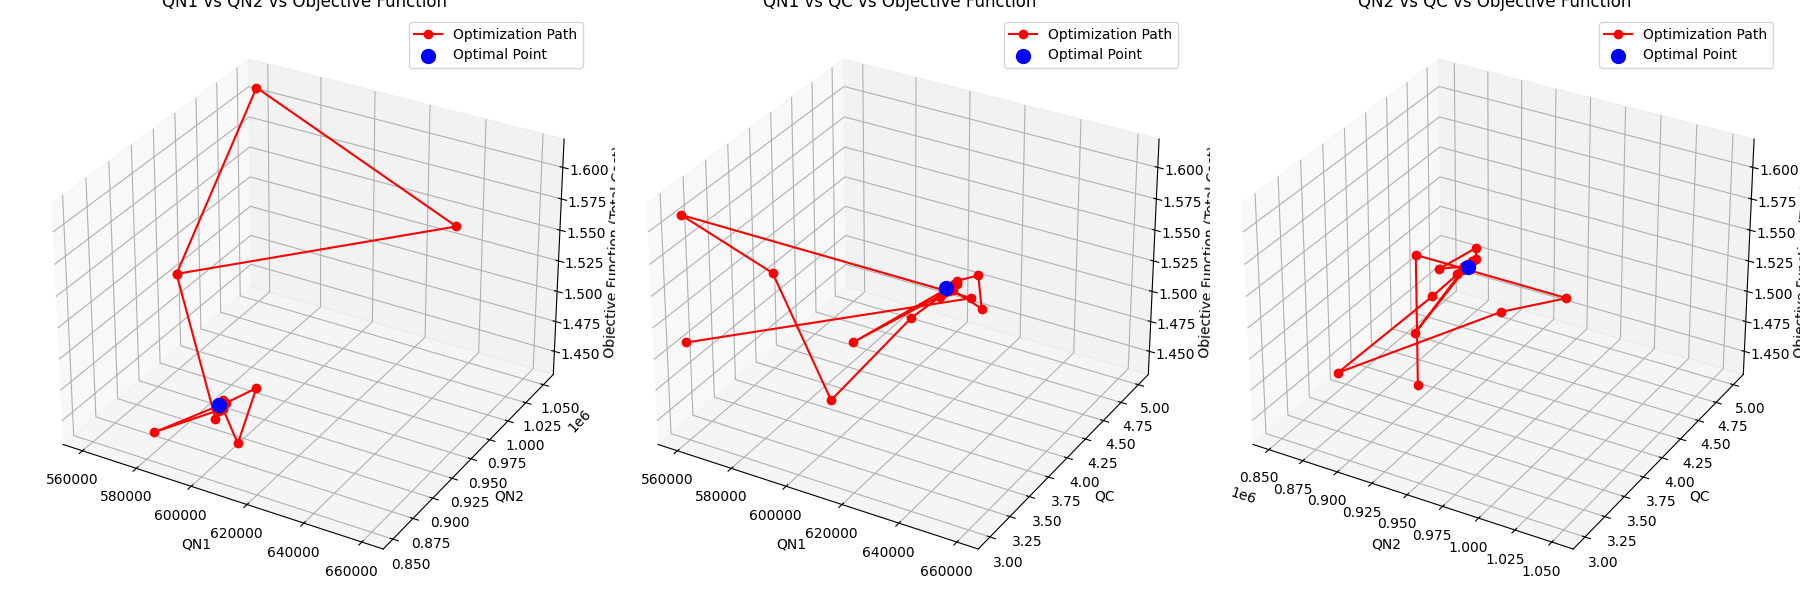
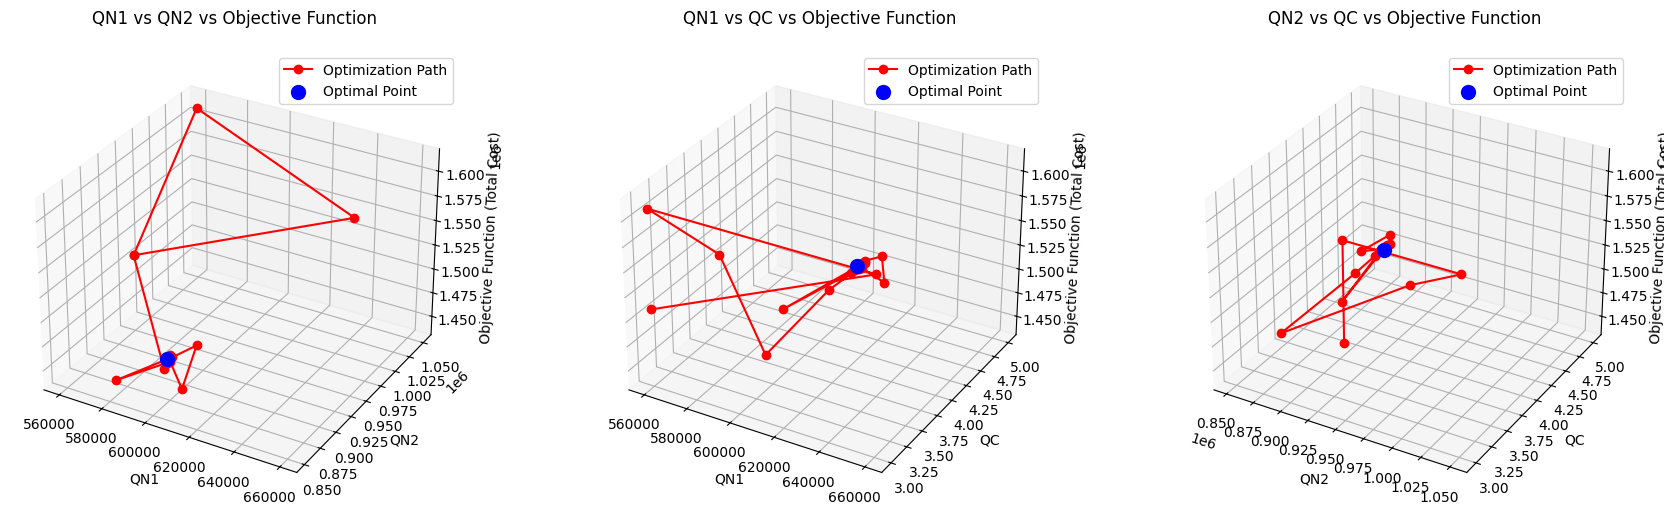
nice

Changed region(s): [[0.3438, 0.0, 1.0, 0.9961], [0.0, 0.0, 0.3438, 0.9961]]

diff --git a/optimize_cobyla_scaled.py b/optimize_cobyla_scaled.py
@@ -169,7 +169,7 @@ ax1.scatter(opt[0], opt[1], cost_min, color='blue', s=100, label='Optimal Point'
 ax1.set_xlabel('QN1')
 ax1.set_ylabel('QN2')
 ax1.set_zlabel('Objective Function (Total Cost)')
-ax1.set_title('QN1 vs QN2 vs Objective Function')
+ax1.set_title('QN1 vs QN2 vs Objective Function', pad=20)  # Add padding to title
 ax1.legend()
 
 # Plot 2: QN1 vs QC vs Objective Function
@@ -179,7 +179,7 @@ ax2.scatter(opt[0], opt[2], cost_min, color='blue', s=100, label='Optimal Point'
 ax2.set_xlabel('QN1')
 ax2.set_ylabel('QC')
 ax2.set_zlabel('Objective Function (Total Cost)')
-ax2.set_title('QN1 vs QC vs Objective Function')
+ax2.set_title('QN1 vs QC vs Objective Function', pad=20)  # Add padding to title
 ax2.legend()
 
 # Plot 3: QN2 vs QC vs Objective Function
@@ -189,16 +189,16 @@ ax3.scatter(opt[1], opt[2], cost_min, color='blue', s=100, label='Optimal Point'
 ax3.set_xlabel('QN2')
 ax3.set_ylabel('QC')
 ax3.set_zlabel('Objective Function (Total Cost)')
-ax3.set_title('QN2 vs QC vs Objective Function')
+ax3.set_title('QN2 vs QC vs Objective Function', pad=20)  # Add padding to title
 ax3.legend()
 
-# Adjust layout to prevent overlap
-plt.tight_layout()
+# Adjust the overall layout with margins to avoid trimming
+plt.subplots_adjust(left=0.05, right=0.95, top=0.90, bottom=0.10, wspace=0.3)
 
 # Save the combined figure with the script name
 figure_name = script_name + '_3d_plots.png'
 figure_path = os.path.join(os.getcwd(), figure_name)
-plt.savefig(figure_path)
+plt.savefig(figure_path, bbox_inches='tight')  # Ensure everything fits in the saved image
 
 # Show the figure (optional)
 plt.show()
